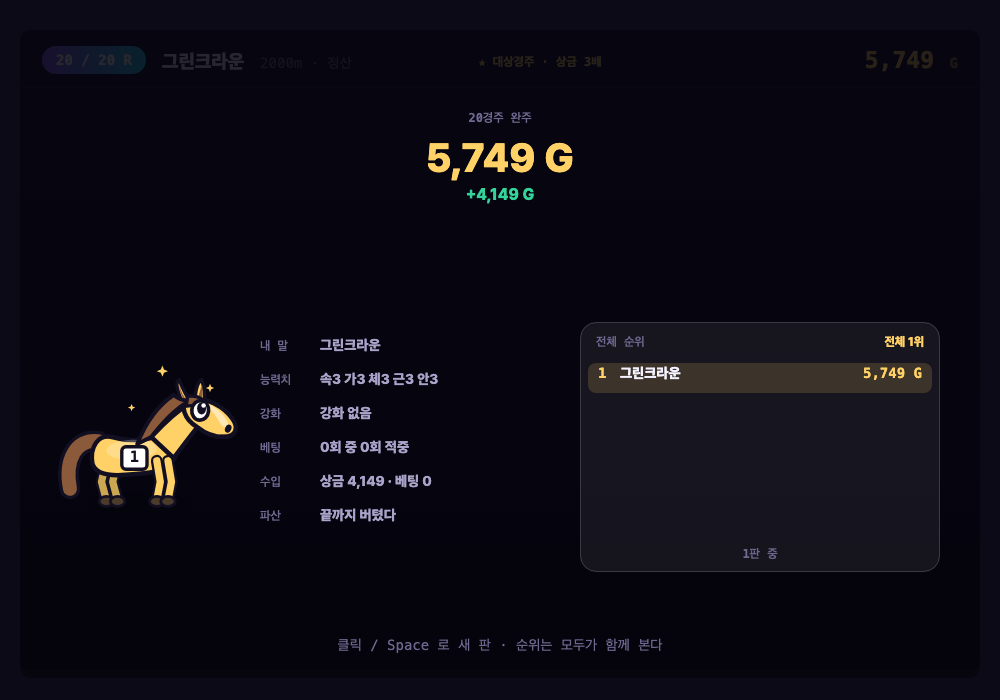
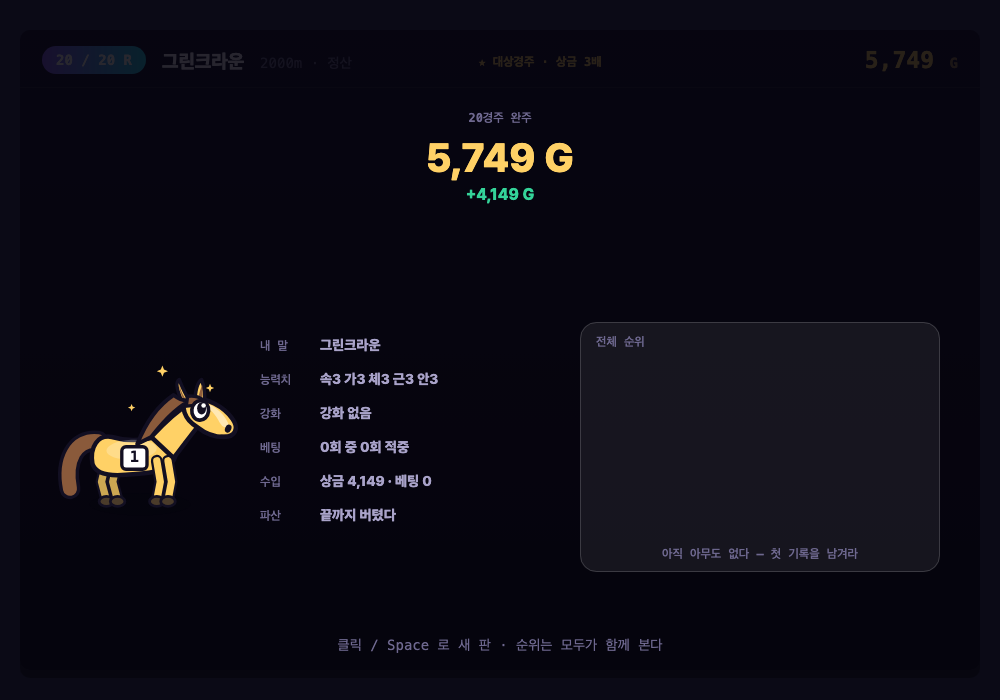
증거 스크린샷이 실제 순위표를 오염시키던 것
`npm run evidence` 가 결산 화면을 찍으려고 `?go=recap` 으로 한 판을 돌리는데,
그게 전역 서버에 POST 했다. **돌릴 때마다 가짜 기록이 쌓였다.**

개발 진입(`?go=`)으로 만든 판은 안 쓴다. 사람이 논 판이 아니다.
읽기는 그대로 두어 화면 배치는 여전히 확인된다.
증거를 3회 돌려 순위표가 비어 있는 것을 확인했다.

Changed region(s): [[0.589, 0.48, 0.93, 0.57], [0.651, 0.78, 0.868, 0.81]]

diff --git a/src/scenes/game.ts b/src/scenes/game.ts
@@ -174,6 +174,12 @@ export class Game {
    */
   private board: Board | null = null;
   private sending = false;
+  /**
+   * 전역 순위에 **쓸지**. 개발 진입(`?go=`)으로 만든 판은 사람이 논 것이 아니므로 안 쓴다 —
+   * `npm run evidence` 가 결산 화면을 찍을 때마다 실제 순위표에 가짜 기록이 쌓였다.
+   * 읽기는 그대로 한다. 화면에 순위가 보여야 배치를 확인할 수 있다.
+   */
+  postRuns = true;
   horse: Horse;
   gold = START_GOLD;
   raceNo = 1;
@@ -308,6 +314,7 @@ export class Game {
     this.runs = saveRun(this.run);
     // 전역은 뒤따라온다. 오면 화면이 바뀌고, 안 오면 로컬이 그대로 보인다.
     this.board = null;
+    if (!this.postRuns) { fetchBoard().then((b) => { this.board = b; }); return; }
     this.sending = true;
     submitRun(this.run)
       .then((b) => { this.board = b; })

diff --git a/src/main.ts b/src/main.ts
@@ -25,6 +25,9 @@ const game = seedParam === null ? new Game() : new Game(Number(seedParam));
 // 이것으로 `chrome --headless --screenshot` 이 페이즈별로 찍힌다. 빌드에는 안 들어간다.
 if (import.meta.env.DEV) {
   const go = q.get("go");
+  // **개발 진입으로 만든 판은 전역에 안 쓴다.** 증거 스크린샷이 결산을 찍을 때마다
+  // 실제 순위표에 가짜 기록이 쌓였다.
+  if (go) game.postRuns = false;
   const steps: Record<string, (string | [number, number])[]> = {
     stable: ["Enter"],
     window: ["Enter", " "],

diff --git a/evidence/REPORT.md b/evidence/REPORT.md
@@ -4,26 +4,26 @@
 
 | | 단계 | 명령 | 시간 |
 |---|---|---|---|
-| ✓ | 검사 | `npm test` | 36.8s |
-| ✓ | 빌드 | `npm run build` | 1.4s |
-| ✓ | 빌드 격리 | `node scripts/isolated.mjs` | 1.4s |
-| ✓ | 실측 | `npx vite-node src/evidence/measure.ts` | 53.0s |
-| ✓ | 라이선스 | `node scripts/licenses.mjs` | 0.1s |
-| ✓ | AI 사용 기록 | `node scripts/ai-use-log.mjs` | 0.1s |
-| ✓ | 화면 | `node scripts/shots.mjs` | 22.8s |
+| ✓ | 검사 | `npm test` | 36.9s |
+| ✓ | 빌드 | `npm run build` | 1.5s |
+| ✓ | 빌드 격리 | `node scripts/isolated.mjs` | 1.5s |
+| ✓ | 실측 | `npx vite-node src/evidence/measure.ts` | 55.2s |
+| ✓ | 라이선스 | `node scripts/licenses.mjs` | 0.0s |
+| ✓ | AI 사용 기록 | `node scripts/ai-use-log.mjs` | 0.0s |
+| ✓ | 화면 | `node scripts/shots.mjs` | 22.7s |
 
 
 ## 어느 소스에서 나왔나
 
 | | |
 |---|---|
-| 커밋 | `eef4543` |
+| 커밋 | `caeb2f2` |
 | 브랜치 | main |
 | 소스 트리 | **깨끗하지 않다 — 커밋 안 된 변경 3건**
 
 ```
-M evidence/screens/1-name.png
- M src/layout.test.ts
+M evidence/REPORT.md
+ M src/main.ts
  M src/scenes/game.ts
 ``` |
 | node | v24.18.0 |
@@ -32,7 +32,7 @@ M evidence/screens/1-name.png
 
 | 파일 | SHA-256 (앞 16) | 크기 |
 |---|---|---|
-| `index-KJjzTzcQ.js` | `80061f57843443d1` | 42.6 kB |
+| `index-DDWocoY6.js` | `306bd1432461b1c2` | 42.6 kB |
 
 ## 같이 있는 것
 
@@ -45,12 +45,12 @@ M evidence/screens/1-name.png
 ### 검사
 
 ```
- ✓ src/balance.test.ts  (18 tests) 31065ms
+ ✓ src/balance.test.ts  (18 tests) 31223ms
 
  Test Files  9 passed (9)
       Tests  185 passed (185)
-   Start at  15:32:22
-   Duration  36.35s (transform 719ms, setup 0ms, collect 16.99s, tests 60.95s, environment 2ms, prepare 1.18s)
+   Start at  15:41:33
+   Duration  36.35s (transform 597ms, setup 1ms, collect 16.65s, tests 60.79s, environment 1ms, prepare 876ms)
 ```
 
 ### 빌드
@@ -60,8 +60,8 @@ M evidence/screens/1-name.png
 rendering chunks...
 computing gzip size...
 dist/index.html                 0.66 kB │ gzip:  0.42 kB
-dist/assets/index-KJjzTzcQ.js  41.82 kB │ gzip: 16.21 kB
-✓ built in 153ms
+dist/assets/index-DDWocoY6.js  41.90 kB │ gzip: 16.23 kB
+✓ built in 190ms
 ```
 
 ### 빌드 격리

diff --git a/docs/DECISIONS.md b/docs/DECISIONS.md
@@ -128,4 +128,5 @@
 | 08-07 | 랭킹 그리기를 좌표 받는 형태로 빼서 **두 화면이 같이 쓴다** | 복사하면 한쪽만 고치는 날이 온다 | src/scenes/game.ts `drawRanking` |
 | 08-07 | (버그) 서버에 못 닿았는데 **"아직 아무도 없다"고 말했다** | 빈 목록과 못 받은 것을 화면에서 안 갈랐다. 전역에는 기록이 있을 수 있으니 거짓말이다 — `서버에 못 닿았다` 로 나눴다. 코드에서는 `null`/`[]` 로 갈라놨는데 **문구에서 다시 뭉쳤다** | src/scenes/game.ts |
 | 08-07 | 시작 전에는 `불러오는 중`, 판 끝에는 `기록 올리는 중` | 올릴 것이 없는데 "올리는 중"이라고 하면 틀린 말이다 | src/scenes/game.ts |
+| 08-07 | (버그) **증거 스크린샷이 실제 순위표에 가짜 기록을 남겼다** | `npm run evidence` 가 결산 화면을 찍으려고 `?go=recap` 으로 한 판을 돌리는데, 그게 전역 서버에 POST 했다. **돌릴 때마다 순위표가 오염됐다.** 개발 진입으로 만든 판은 안 쓴다(`postRuns=false`) — 읽기는 그대로라 화면 배치는 여전히 확인된다. 3회 돌려 순위표가 비어 있는 것을 확인했다 | src/main.ts, src/scenes/game.ts |
 
